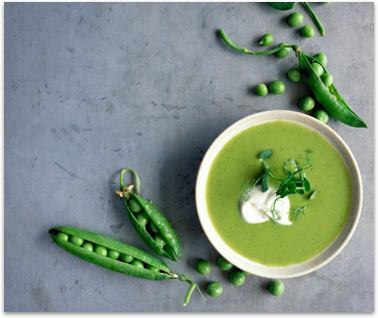
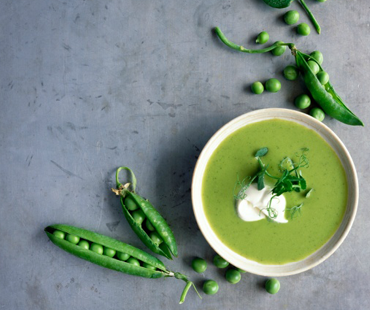
modified

diff --git a/css/style.css b/css/style.css
@@ -9,7 +9,6 @@ body {
 }
 
 .content {
-    display: flex;
     padding: 10px 105px;
 }
 
@@ -22,6 +21,7 @@ a {
     display: flex;
     flex-direction: row;
     justify-content: space-between;
+    padding: 0 50px;
 }
 
 .post {
@@ -46,7 +46,7 @@ a {
 
 header {
     text-align: center;
-    padding-top: 10px;
+    padding-top: 50px;
 }
 
 header h1 {
@@ -104,7 +104,7 @@ footer {
     width: 200px;
     height: 60px;
     box-shadow: 1px 1px 3px black;
-}
+}  
 
 
 

diff --git a/index.html b/index.html
@@ -41,7 +41,7 @@
                     <article>
                         <a href="#">
                             <div>
-                                <img src="img/food.png" alt="post-pic-2" class="post-pic">
+                                <img src="img/food.png" alt="post-pic-2" class="post-pic pp2">
                             </div>
                             <div class="post-header">
                                 <div class="post-date">
